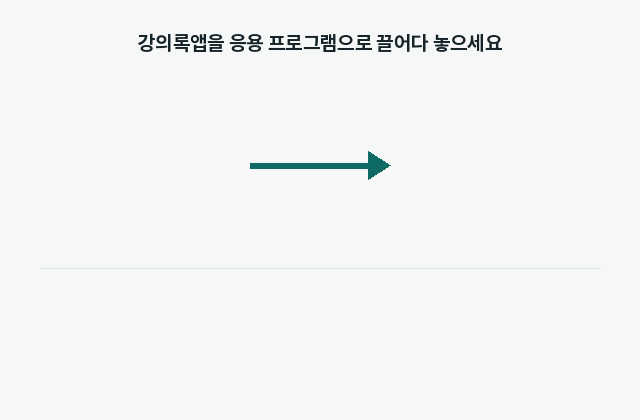
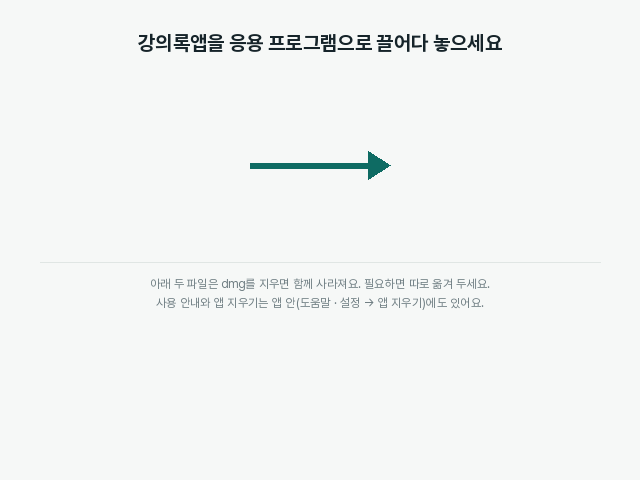
installer: dmg note text, taller window; attach timetable json
Claude-Session: https://claude.ai/code/session_014NgMxq66NB9UoJFKeBdhu1

Changed region(s): [[0.25, 0.5571, 0.75, 0.65], [0.2188, 0.0619, 0.7812, 0.1238], [0.375, 0.3095, 0.625, 0.4333]]

diff --git a/installer/dmg_settings.py b/installer/dmg_settings.py
@@ -5,7 +5,7 @@ symlinks = {"응용 프로그램": "/Applications"}
 format = "UDZO"
 filesystem = "HFS+"
 background = defines["bg"]
-window_rect = ((200, 120), (640, 420))
+window_rect = ((200, 120), (640, 480))
 icon_size = 96
 text_size = 12
 show_status_bar = show_tab_view = show_toolbar = show_pathbar = show_sidebar = False
@@ -14,8 +14,8 @@ arrange_by = None
 _loc = {
     os.path.basename(defines["app"]): (170, 165),
     "응용 프로그램": (470, 165),
-    "읽어 주세요.txt": (230, 335),
-    os.path.basename(defines["uninst"]): (410, 335),
+    "읽어 주세요.txt": (230, 380),
+    os.path.basename(defines["uninst"]): (410, 380),
 }
 icon_locations = {}
 for k, v in _loc.items():          # 한글 이름: Finder가 쓰는 모양(NFD)과 NFC 둘 다
